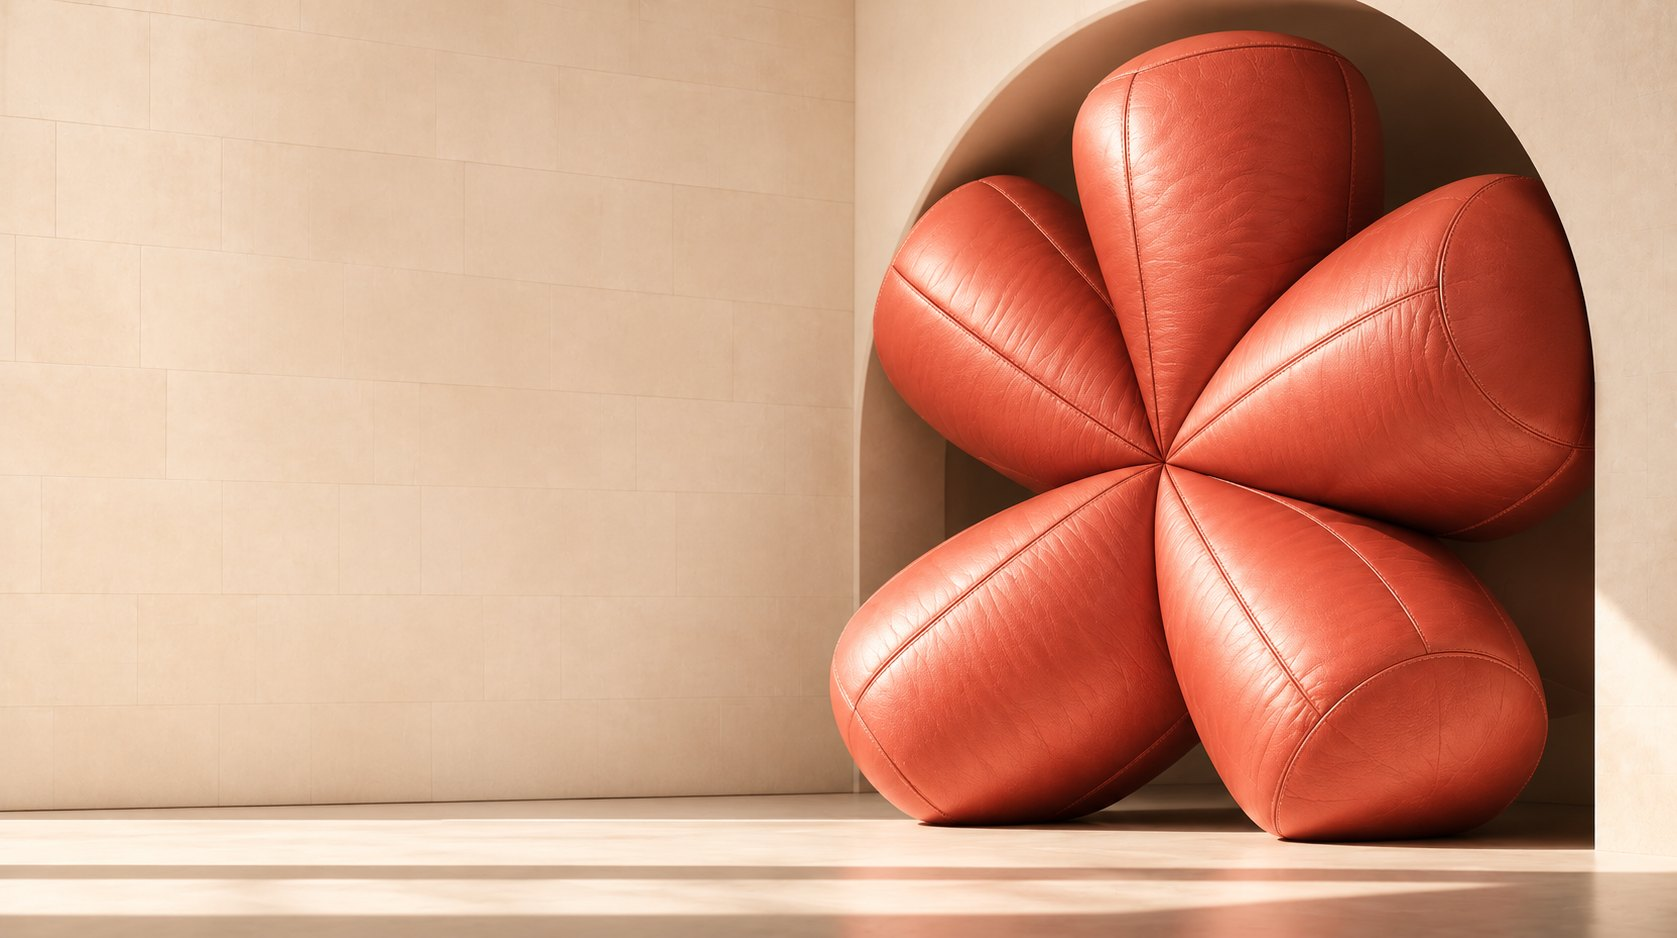
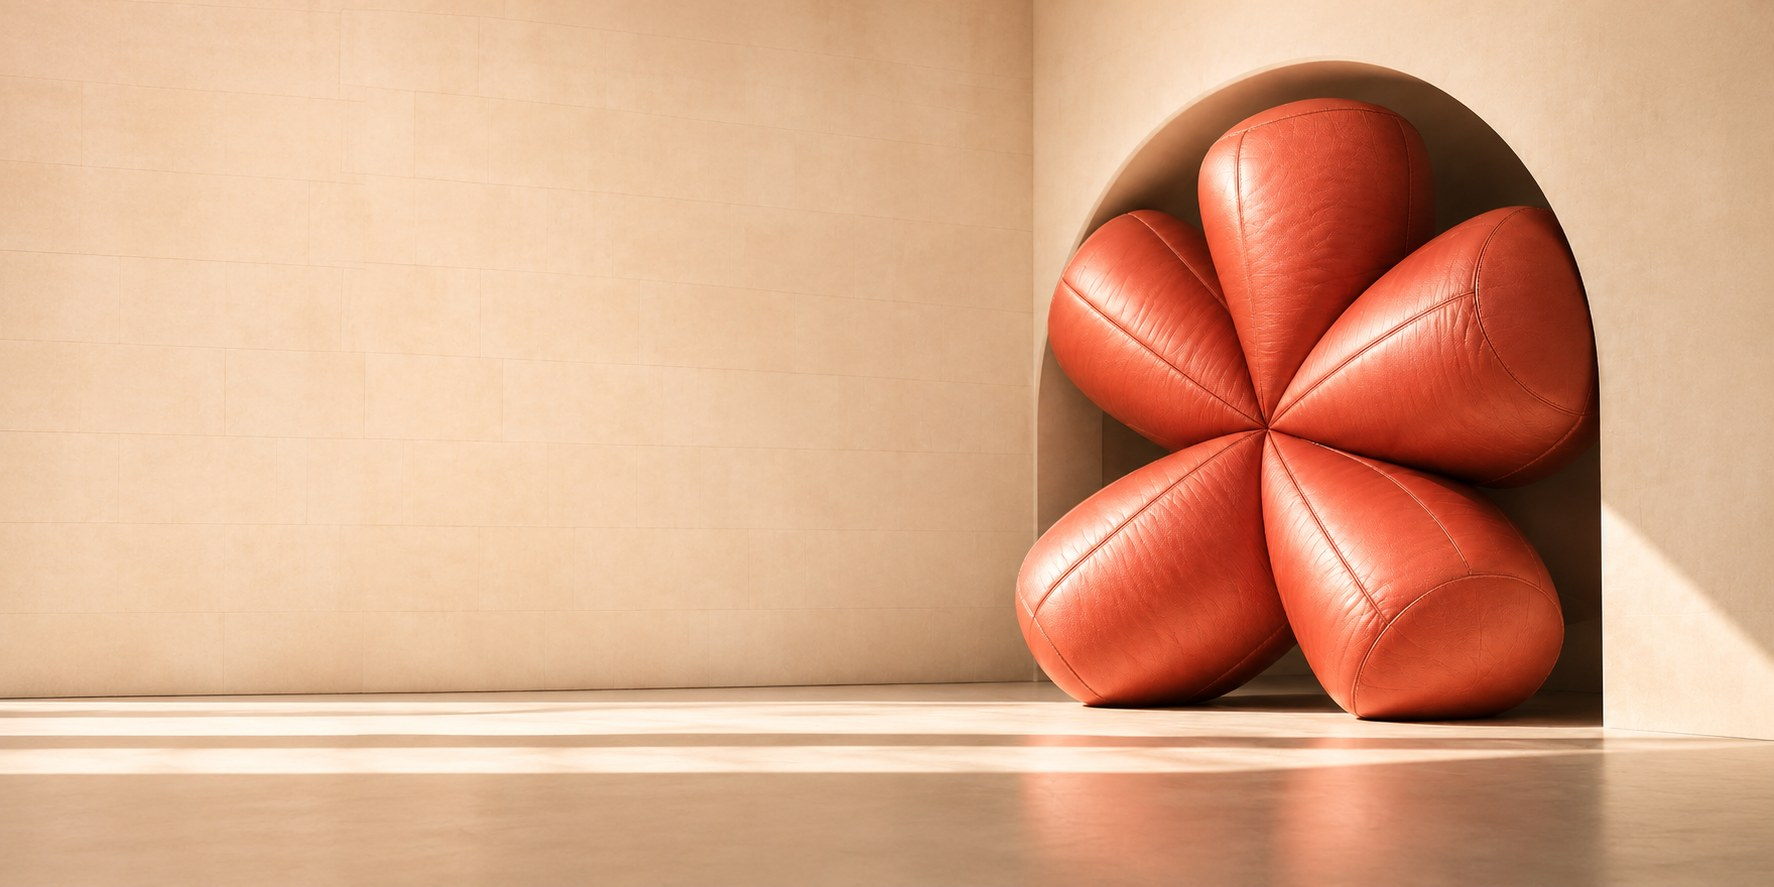
Add files via upload

diff --git a/src/css/styles.css b/src/css/styles.css
@@ -359,6 +359,9 @@ body.review .review-btn .dot{background:var(--clay)}
   .founder .txt{grid-column:6/13}
 }
 .founder .txt{display:grid;gap:24px}
+/* Photos: no pale hairline at the edge of the frame */
+.ph:not(.frame) .ph-i{background:transparent}
+.ph:not(.frame) .ph-i img{inset:-1px;width:calc(100% + 2px);height:calc(100% + 2px)}
 @media(max-width:899px){.founder .ph{max-width:420px}}
 
 /* Contact CTA */
@@ -527,7 +530,7 @@ body[data-tone="clay"] .fl path{stroke:currentColor}
 /* Hero: make your mark, literally */
 .hero{position:relative;background:#E9E0D3;color:var(--plum);overflow:hidden}
 .hero .img{position:relative}
-.hero .img img{display:block;width:100%;aspect-ratio:4/3;object-fit:cover;object-position:92% 50%}
+.hero .img img{display:block;width:100%;aspect-ratio:4/3;object-fit:cover;object-position:88% 50%}
 .hero canvas{position:absolute;inset:0;width:100%;height:100%;z-index:1;pointer-events:none}
 .hero .wrap{position:relative;z-index:2;display:grid;gap:26px;padding-block:32px 56px}
 .hero h1{font-size:clamp(4rem,11.4vw,12.5rem);line-height:.88;letter-spacing:-.048em;font-weight:340}
@@ -538,12 +541,13 @@ body[data-tone="clay"] .fl path{stroke:currentColor}
 .hero .lede{color:var(--plum)}
 .hero .hint{display:none}
 @media(min-width:900px){
-  .hero{min-height:clamp(500px,48vw,1300px);display:flex;align-items:center}
+  .hero{min-height:clamp(420px,min(92vh,50vw),1300px);min-height:clamp(420px,min(calc(100svh - 80px),50vw),1300px);display:flex;align-items:center}
   .hero .img{position:absolute;inset:0}
-  .hero .img img{height:100%;aspect-ratio:auto;object-position:100% 25%}
-  .hero .wrap{width:100%;padding-block:clamp(48px,5vw,88px) clamp(56px,6vw,104px)}
-.hero h1{font-size:clamp(3.2rem,7.4vw,8.6rem);max-width:9ch}
-.hero .lede{font-size:clamp(1rem,1.25vw,1.3rem)}
+  .hero .img img{height:100%;aspect-ratio:auto;object-position:100% 36%}
+  .hero .wrap{width:100%;gap:clamp(16px,2.6vh,26px);padding-block:clamp(32px,min(5vw,5vh),88px) clamp(32px,min(5vw,6vh),96px)}
+.hero h1{font-size:clamp(3rem,min(7.4vw,12.5vh),8.6rem);max-width:9ch}
+.hero .lede{font-size:clamp(1rem,min(1.25vw,2.5vh),1.3rem)}
+.hero .hrow{gap:clamp(14px,2.4vh,22px)}
 .hero .hrow{max-width:none}
 .hero .lede{max-width:none}
 }
@@ -718,10 +722,14 @@ section[data-tone="plum"] .lmq img{filter:brightness(0) invert(.9) sepia(.12)}
 @media(prefers-reduced-motion:reduce){.ct-pic{transition:none}}
 
 /* About hero: one full-width image with text over the plain left */
-.abouthero{position:relative;background:#E8A090;overflow:hidden;min-height:clamp(420px,40vw,1040px);display:flex;align-items:center}
+.abouthero{position:relative;background:#E8A090;overflow:hidden;min-height:clamp(400px,min(92vh,40vw),1040px);min-height:clamp(400px,min(calc(100svh - 80px),40vw),1040px);display:flex;align-items:center}
 .abouthero .img{position:absolute;inset:0}
 .abouthero .img img{width:100%;height:100%;object-fit:cover;object-position:100% 50%}
-.abouthero .wrap{position:relative;z-index:2;width:100%;padding-block:clamp(48px,5vw,88px);display:grid;gap:26px}
+.abouthero .wrap{position:relative;z-index:2;width:100%;padding-block:clamp(32px,min(5vw,6vh),88px);display:grid;gap:clamp(16px,2.6vh,26px)}
+@media(min-width:769px){
+  main section.abouthero[data-tone="peach"]{background:linear-gradient(#EAA497,#EAA69A 50%,#EBA99D)}
+  .abouthero .img img{object-fit:contain;object-position:right center}
+}
 .abouthero h1{max-width:12ch}
 .abouthero .lede{max-width:34ch;color:rgba(44,39,62,.8)}
 @media(max-width:768px){
@@ -735,10 +743,10 @@ section[data-tone="plum"] .lmq img{filter:brightness(0) invert(.9) sepia(.12)}
 }
 
 /* Expertise hero: mirror gallery as full-width background, text on the open left */
-.exphero{position:relative;background:#EDE6D9;overflow:hidden;min-height:clamp(420px,38vw,820px);display:flex;align-items:center}
+.exphero{position:relative;background:#EDE6D9;overflow:hidden;min-height:clamp(400px,min(92vh,38vw),820px);min-height:clamp(400px,min(calc(100svh - 80px),38vw),820px);display:flex;align-items:center}
 .exphero .img{position:absolute;inset:0}
 .exphero .img img{width:100%;height:100%;object-fit:cover;object-position:70% 50%}
-.exphero .wrap{position:relative;z-index:2;width:100%;padding-block:clamp(40px,6vw,96px);display:grid;gap:26px}
+.exphero .wrap{position:relative;z-index:2;width:100%;padding-block:clamp(32px,min(5vw,6vh),88px);display:grid;gap:clamp(16px,2.6vh,26px)}
 .exphero h1{max-width:12ch}
 .exphero .lede{max-width:34ch;color:rgba(44,39,62,.82)}
 @media(max-width:768px){

diff --git a/src/js/app.jsx b/src/js/app.jsx
@@ -221,7 +221,7 @@ function Footer(){
    ========================================================= */
 function Hero(){
   return <section className="hero" data-tone="sand" aria-labelledby="h-hero">
-    <div className="img"><img src={IMG.c_hero} alt="A monumental terracotta leather flower sculpture set in a sunlit stone archway" /></div>
+    <div className="img"><img src={IMG.c_hero} alt="A monumental coral leather flower sculpture resting in a sunlit stone archway" /></div>
     <div className="wrap">
             <h1 id="h-hero" tabIndex="-1"><Ln>Built to</Ln><Ln>make an</Ln><Ln>impact.</Ln></h1>
       <div className="hrow fade-in">
@@ -537,7 +537,7 @@ function Expertise(){
     <section className="exphero" data-tone="bone" aria-labelledby="page-h1">
       <div className="img"><img src={IMG.c_mirrors} alt="A sunlit wall of assorted vintage mirrors in coral, green and cream frames"/></div>
       <div className="wrap">
-        <h1 id="page-h1" tabIndex="-1" className="d-xl" style={{fontSize:"clamp(2.8rem,6.6vw,6.8rem)"}}>Organised around what you need.</h1>
+        <h1 id="page-h1" tabIndex="-1" className="d-xl" style={{fontSize:"clamp(2.6rem,min(6.6vw,11.5vh),6.8rem)"}}>Organised around what you need.</h1>
         <p className="lede muted">Six areas of expertise, brought together around what your business needs. Most clients draw on several at once, which is where joined-up thinking makes the biggest difference.</p>
       </div>
     </section>
@@ -616,7 +616,7 @@ function About(){
     <section className="abouthero" data-tone="peach" aria-labelledby="page-h1">
       <div className="img"><img src={IMG.c_bombwide} alt="A purple cartoon bomb on a peach background"/></div>
       <div className="wrap">
-        <h1 id="page-h1" tabIndex="-1" className="d-xl" style={{fontSize:"clamp(2.8rem,6.6vw,6.8rem)"}}>Good marketing starts with curiosity.</h1>
+        <h1 id="page-h1" tabIndex="-1" className="d-xl" style={{fontSize:"clamp(2.6rem,min(6.6vw,11.5vh),6.8rem)"}}>Good marketing starts with curiosity.</h1>
         <p className="lede muted">We’re fascinated by what makes people stop, think, feel and act. We combine that curiosity with strategic thinking, creative ideas and a determination to get things done.</p>
       </div>
     </section>

diff --git a/src/index.html b/src/index.html
@@ -11,13 +11,15 @@
 <meta property="og:image" content="https://flourishcomms.co.uk/images/c_hero.jpg">
 <meta property="og:url" content="https://flourishcomms.co.uk/">
 <meta name="twitter:card" content="summary_large_image">
-<link rel="icon" href="favicon.svg" type="image/svg+xml">
+<link rel="icon" href="favicon.png" type="image/png" sizes="512x512">
+<link rel="icon" href="favicon-48.png" type="image/png" sizes="48x48">
+<link rel="apple-touch-icon" href="apple-touch-icon.png">
 <link rel="preconnect" href="https://fonts.googleapis.com">
 <link rel="preconnect" href="https://fonts.gstatic.com" crossorigin>
 <link rel="stylesheet" href="https://fonts.googleapis.com/css2?family=Fraunces:ital,opsz,wght,SOFT@0,9..144,300..600,0..100;1,9..144,300..600,0..100&family=Karla:wght@300..700&display=swap">
 <link rel="preload" as="image" href="images/c_hero.jpg">
 <link rel="stylesheet" href="css/styles.css">
-<style>img{max-width:100%}[hidden]{display:none!important}</style>
+<style>html,body{margin:0;padding:0}img{max-width:100%}[hidden]{display:none!important}</style>
 </head>
 <body>
 <!-- Netlify reads this hidden form at deploy time so the contact form can submit to it -->

diff --git a/CLAUDE.md b/CLAUDE.md
@@ -22,6 +22,7 @@ together so edits are quick and safe.
   Near the top are plain data arrays (EXPERTISE, PROCESS, PILLARS, CLIENTS, the
   FAQ list) — most copy changes are a one-line edit there.
 - `js/images.js` — maps each image name to its file.
+- `favicon.png`, `favicon-48.png`, `apple-touch-icon.png` — the browser tab and phone home-screen icons.
 - `images/` — all photos. Client logos are in `images/clients/`.
 
 ## Brand kit (defined in css/styles.css :root)
